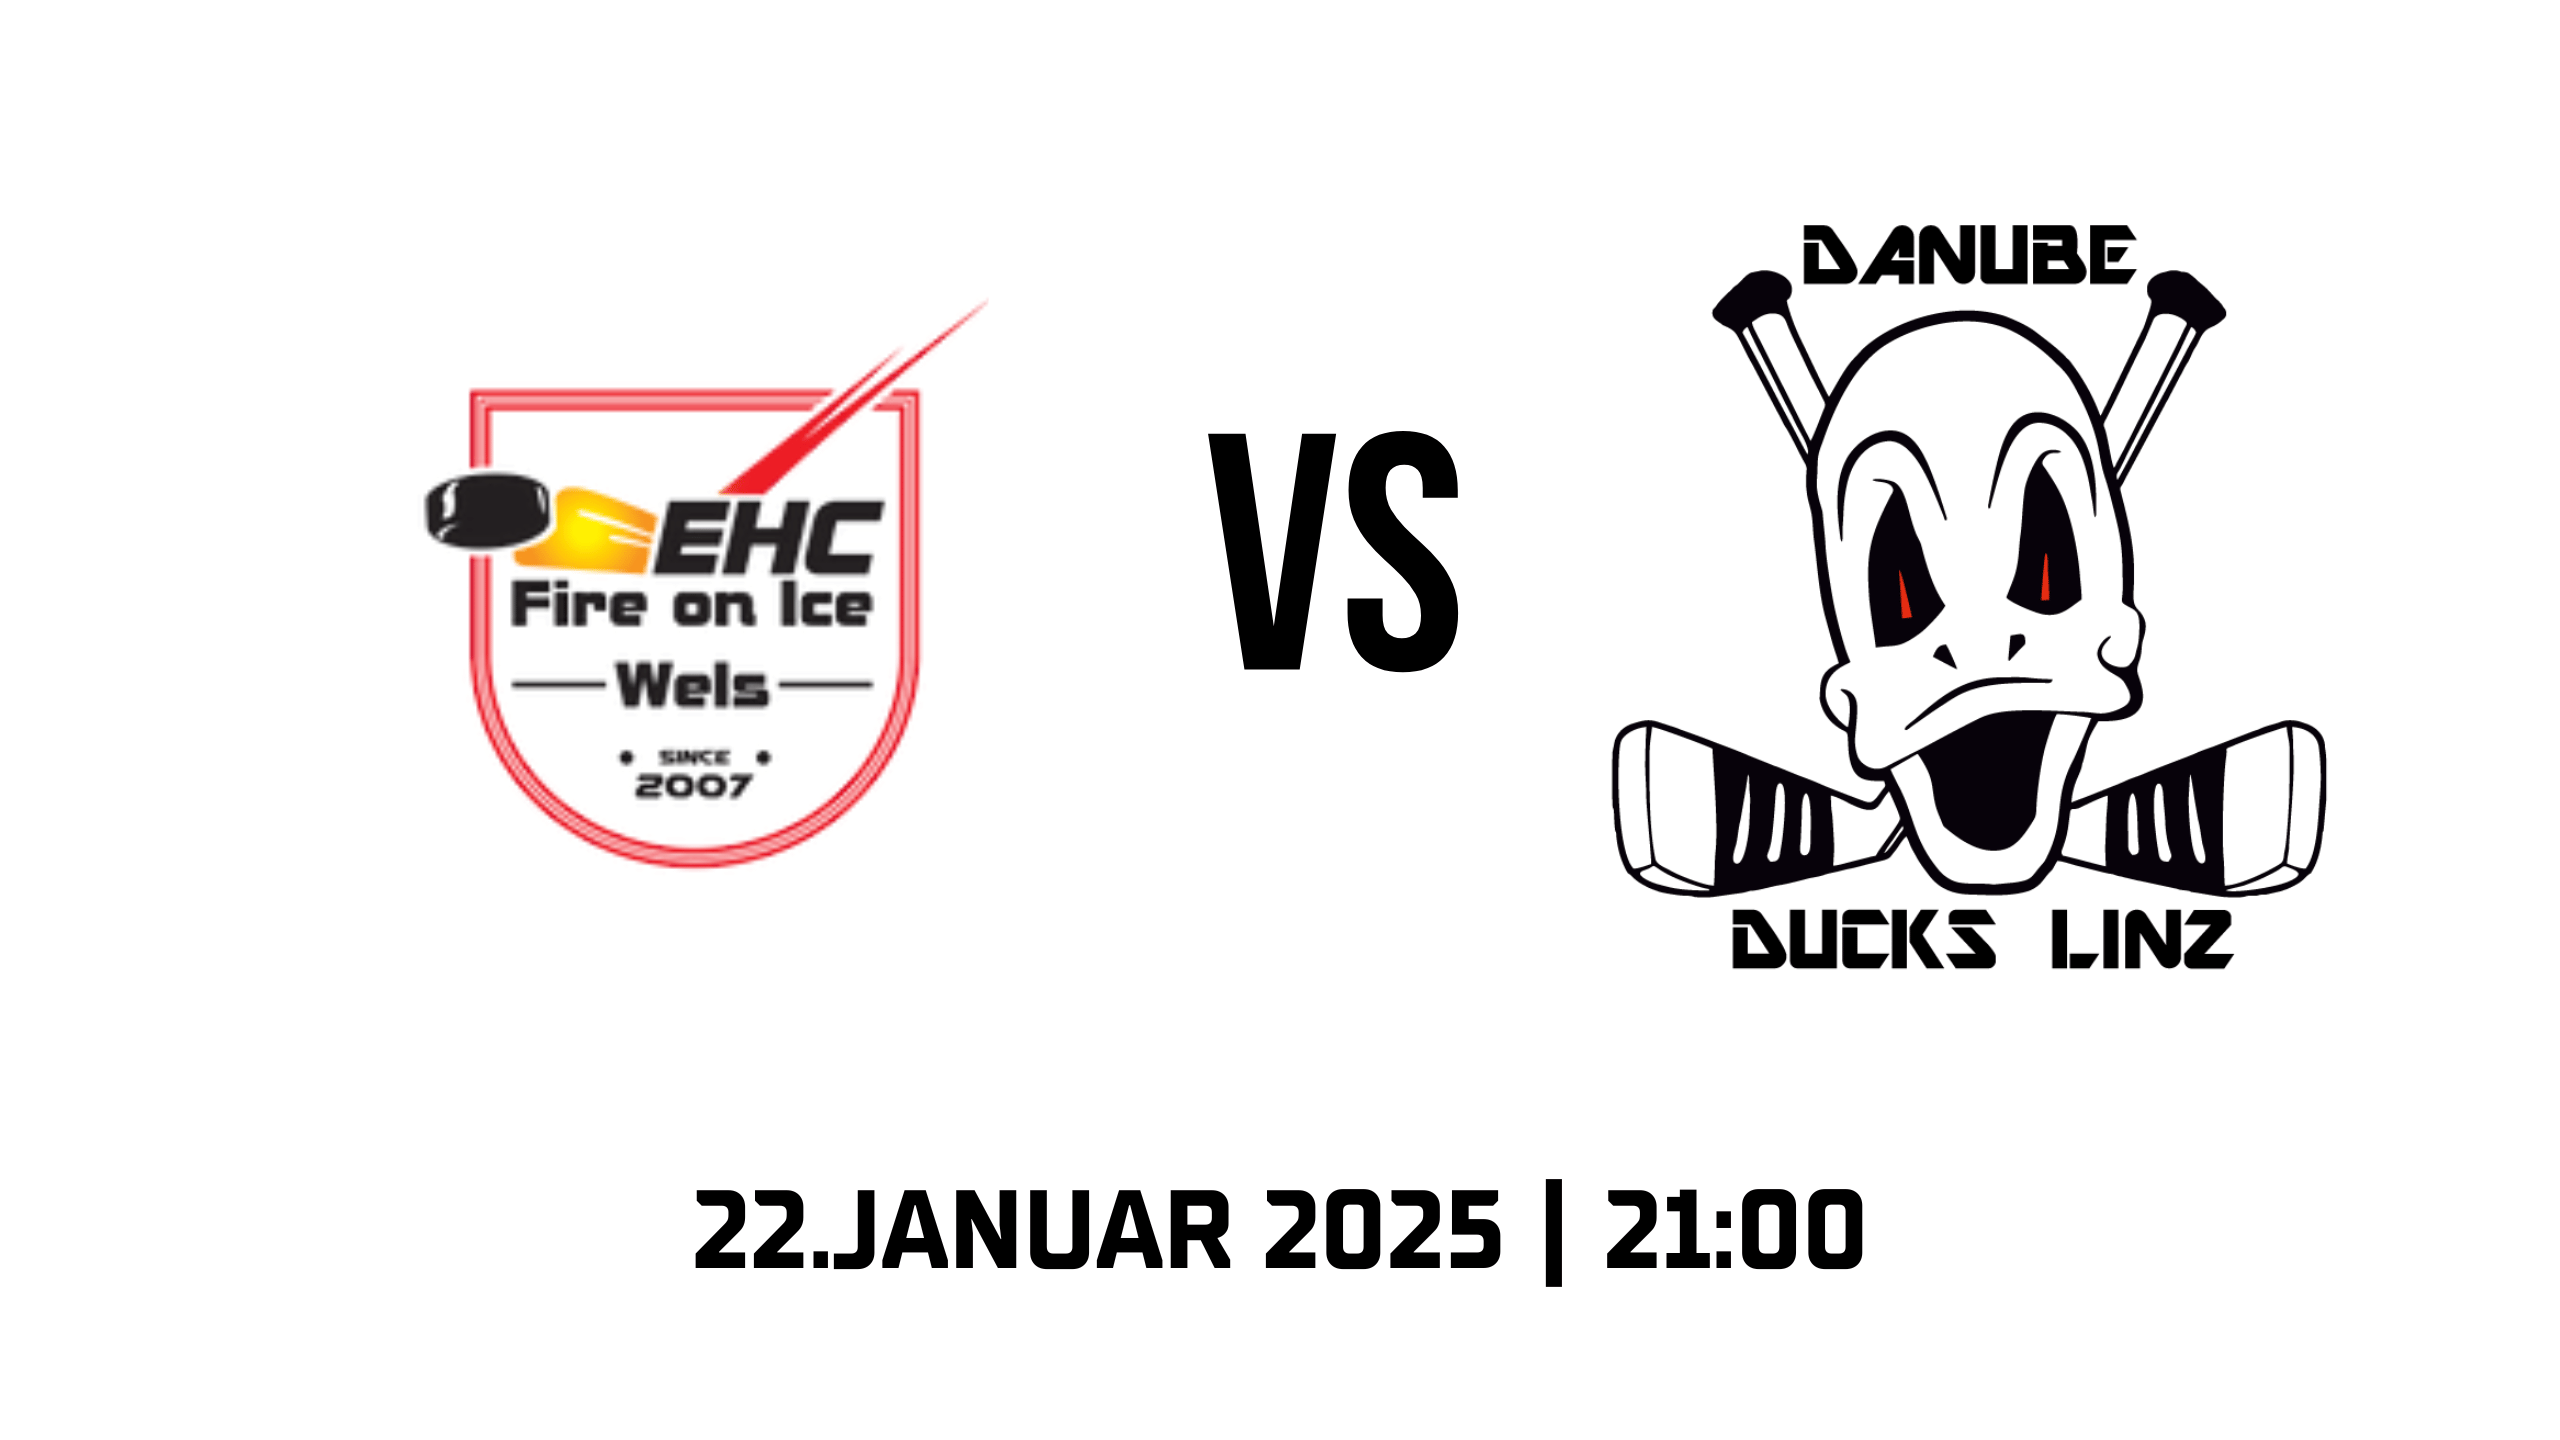
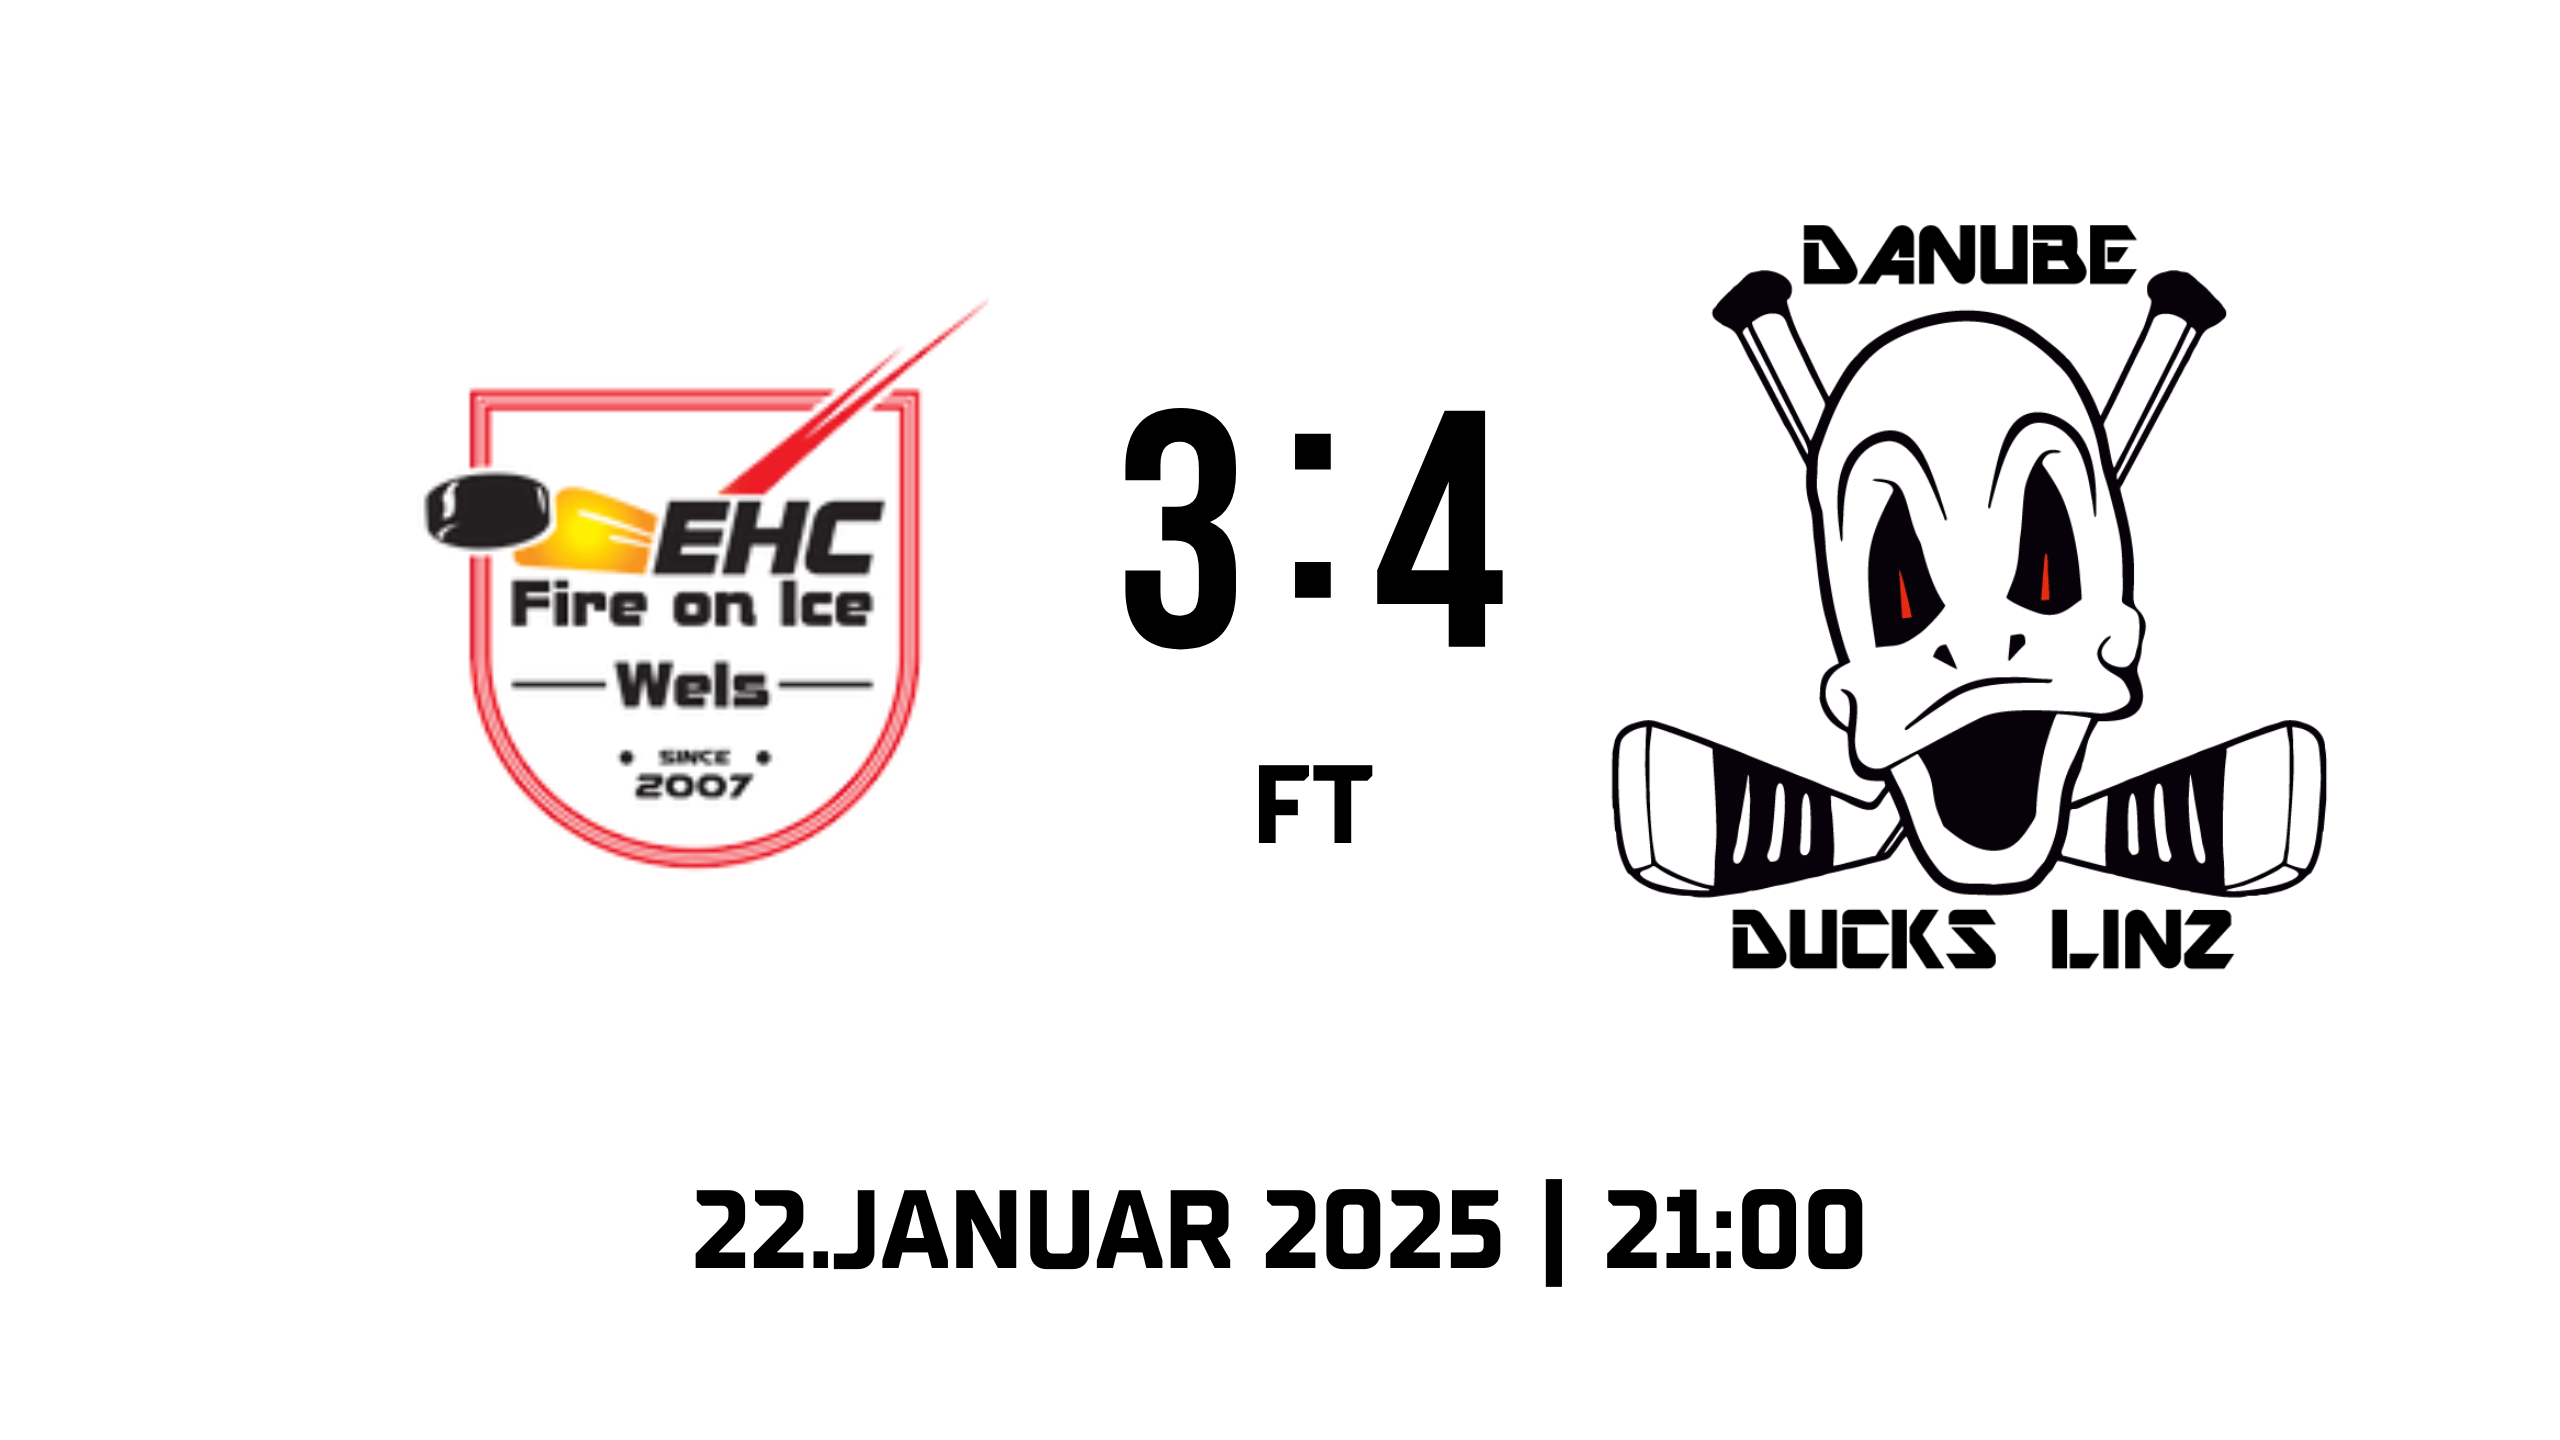
aktualisiert am 25.01.2025

Changed region(s): [[0.4375, 0.2812, 0.5938, 0.4688], [0.4688, 0.5312, 0.5312, 0.5938]]

diff --git a/index.html b/index.html
@@ -48,13 +48,13 @@
       <section id="next game" class="section-next-game">
         <h2>NEXT GAME</h2>
         <div class="matchup">
-          <img src="/images/FireOnIce.png" alt="Danube Ducks Logo" class="Ducks-Logo-next-game">
+          <img src="/images/ECU-Logo.png" alt="Danube Ducks Logo" class="Ducks-Logo-next-game">
           <div class="vs-section">
             <h3>VS</h3>
             <div class="arena-location">
                 <span class="material-symbols-outlined">home</span>
-                <a href="https://www.google.at/maps/place/Eishalle+Wels/@48.1477214,14.0102507,759m/data=!3m2!1e3!4b1!4m6!3m5!1s0x4773f28c5c112b41:0xa6bb24438ef46876!8m2!3d48.1477214!4d14.0128256!16s%2Fg%2F1q5ccg3ty?entry=ttu&g_ep=EgoyMDI1MDExNS4wIKXMDSoASAFQAw%3D%3D" target="_blank" class="map-link">
-                    EISHALLE WELS
+                <a href="https://www.google.at/maps/place/Eishalle+Amstetten/@48.1164774,14.8760455,760m/data=!3m2!1e3!4b1!4m6!3m5!1s0x4772499dd0751e2f:0x590d25743e5e6298!8m2!3d48.1164774!4d14.8786204!16s%2Fg%2F11n05mfc2q?entry=ttu&g_ep=EgoyMDI1MDEyMi4wIKXMDSoASAFQAw%3D%3D" target="_blank" class="map-link">
+                    EISHALLE AMSTETTEN
                 </a>
             </div>
         </div>
@@ -73,10 +73,10 @@
             <h2 class="news-title">AKTUELLES</h2>
             <div class="instagram-posts">
                 <!-- First Instagram Post -->
-                <div class="Post" onclick="openModal('https://www.instagram.com/p/DE5zw_CIS-d/?utm_source=ig_embed&amp;utm_campaign=loading', 'Erster Post Beschreibung')">
-                    <blockquote class="instagram-media" data-instgrm-permalink="https://www.instagram.com/p/DE5zw_CIS-d/?utm_source=ig_embed&amp;utm_campaign=loading" data-instgrm-version="14">
+                <div class="Post" onclick="openModal('https://www.instagram.com/p/DFKgbnPtiCC/?utm_source=ig_embed&amp;utm_campaign=loading', 'Erster Post Beschreibung')">
+                    <blockquote class="instagram-media" data-instgrm-permalink="https://www.instagram.com/p/DFKgbnPtiCC/?utm_source=ig_embed&amp;utm_campaign=loading" data-instgrm-version="14">
                         <div style="padding:16px;">
-                            <a href="https://www.instagram.com/p/DE5zw_CIS-d/?utm_source=ig_embed&amp;utm_campaign=loading" target="_blank">
+                            <a href="https://www.instagram.com/p/DFKgbnPtiCC/?utm_source=ig_embed&amp;utm_campaign=loading" target="_blank">
                                 <!-- Instagram post content -->
                             </a>
                         </div>
@@ -85,10 +85,10 @@
                 </div>
         
                 <!-- Second Instagram Post -->
-                <div class="Post" onclick="openModal('https://www.instagram.com/p/DE2cPLftC9V/?utm_source=ig_embed&amp;utm_campaign=loading', 'Zweiter Post Beschreibung')">
-                    <blockquote class="instagram-media" data-instgrm-permalink="https://www.instagram.com/p/DE2cPLftC9V/?utm_source=ig_embed&amp;utm_campaign=loading" data-instgrm-version="14">
+                <div class="Post" onclick="openModal('https://www.instagram.com/p/DFKgBCLNWiw/?utm_source=ig_embed&amp;utm_campaign=loading', 'Zweiter Post Beschreibung')">
+                    <blockquote class="instagram-media" data-instgrm-permalink="https://www.instagram.com/p/DFKgBCLNWiw/?utm_source=ig_embed&amp;utm_campaign=loading" data-instgrm-version="14">
                         <div style="padding:16px;">
-                            <a href="https://www.instagram.com/p/DE2cPLftC9V/?utm_source=ig_embed&amp;utm_campaign=loading" target="_blank">
+                            <a href="https://www.instagram.com/p/DFKgBCLNWiw/?utm_source=ig_embed&amp;utm_campaign=loading" target="_blank">
                                 <!-- Instagram post content -->
                             </a>
                         </div>
@@ -97,10 +97,10 @@
                 </div>
         
                 <!-- Third Instagram Post -->
-                <div class="Post" onclick="openModal('https://www.instagram.com/p/DEvT6Y0xfRv/?utm_source=ig_embed&amp;utm_campaign=loading', 'Dritter Post Beschreibung')">
-                    <blockquote class="instagram-media" data-instgrm-permalink="https://www.instagram.com/p/DEvT6Y0xfRv/?utm_source=ig_embed&amp;utm_campaign=loading" data-instgrm-version="14">
+                <div class="Post" onclick="openModal('https://www.instagram.com/p/DFFNCT0sQc-/?utm_source=ig_embed&amp;utm_campaign=loading', 'Dritter Post Beschreibung')">
+                    <blockquote class="instagram-media" data-instgrm-permalink="https://www.instagram.com/p/DFFNCT0sQc-/?utm_source=ig_embed&amp;utm_campaign=loading" data-instgrm-version="14">
                         <div style="padding:16px;">
-                            <a href="https://www.instagram.com/p/DEvT6Y0xfRv/?utm_source=ig_embed&amp;utm_campaign=loading" target="_blank">
+                            <a href="https://www.instagram.com/p/DFFNCT0sQc-/?utm_source=ig_embed&amp;utm_campaign=loading" target="_blank">
                                 <!-- Instagram post content -->
                             </a>
                         </div>

diff --git a/Spielplan-Unterliga.html b/Spielplan-Unterliga.html
@@ -172,13 +172,13 @@
                         </div>
                     </td>
                     <td><img src="images/FOI_TABELLE.png" alt="Danube Ducks Logo" class="team-logo"></td>
-                    <td class="result">-:-</td>
+                    <td class="result">3:4</td>
                     <td><img src="images/DL_TABELLE.png" alt="Innviertel Penguins Logo" class="team-logo"></td>
                     <td>
                         <div class="team-container team-container-gast">
                             <span>ASKÖ EV Danube Ducks Linz 2</span>
                         </div>
-                        <td><div class="squareS"></div></td> <!-- Quadrat -->
+                        <td><div class="squareW">W</div></td> <!-- Quadrat -->
                     </td>
                 </tr>
                 <tr>
@@ -246,17 +246,17 @@
                             <div class="indicator win">W</div>
                             <div class="indicator win">W</div>
                             <div class="indicator win">W</div>
-                            <div class="indicator folgt"></div>
+                            <div class="indicator lose">L</div>
                         </div>
                     </td>
-                    <td>7</td> <!-- GP -->
+                    <td>8</td> <!-- GP -->
                     <td>6</td> <!-- W -->
-                    <td>0</td> <!-- L -->
+                    <td>1</td> <!-- L -->
                     <td>1</td> <!-- OTW -->
                     <td>0</td> <!-- OTL --> 
-                    <td>51</td> <!-- GF -->
-                    <td>14</td> <!-- GA -->
-                    <td>+37</td> <!-- GD -->
+                    <td>54</td> <!-- GF -->
+                    <td>18</td> <!-- GA -->
+                    <td>+36</td> <!-- GD -->
                     <td>20</td> <!-- PTS -->
                 </tr>
                 <tr>
@@ -276,18 +276,18 @@
                             <div class="indicator win">W</div>
                             <div class="indicator lose">L</div>
                             <div class="indicator lose">L</div>
-                            <div class="indicator folgt"></div>
+                            <div class="indicator win">W</div>
                         </div>
                     </td>
-                    <td>7</td>
-                    <td>4</td>
+                    <td>8</td>
+                    <td>5</td>
                     <td>3</td>
                     <td>0</td>
                     <td>0</td>
-                    <td>22</td>
-                    <td>24</td>
-                    <td>-2</td>
-                    <td>12</td>
+                    <td>32</td>
+                    <td>25</td>
+                    <td>+7</td>
+                    <td>15</td>
                 </tr>
                 <tr>
                     <td class="bold">3</td>
@@ -305,19 +305,19 @@
                             <div class="indicator win">W</div>
                             <div class="indicator win">W</div>
                             <div class="indicator win">W</div>
-                            <div class="indicator folgt"></div>
+                            <div class="indicator win">W</div>
                             <div class="indicator folgt"></div>
                         </div>
                     </td>
-                    <td>6</td>
-                    <td>3</td>
+                    <td>7</td>
+                    <td>4</td>
                     <td>3</td>
                     <td>0</td>
                     <td>0</td>
-                    <td>31</td>
-                    <td>23</td>
-                    <td>+8</td>
-                    <td>9</td>
+                    <td>35</td>
+                    <td>26</td>
+                    <td>+9</td>
+                    <td>12</td>
                 </tr>
                 <tr>
                     <td class="bold">4</td>
@@ -366,17 +366,17 @@
                             <div class="indicator lose">L</div>
                             <div class="indicator lose">L</div>
                             <div class="indicator lose">L</div>
-                            <div class="indicator folgt"></div>
+                            <div class="indicator lose">L</div>
                         </div>
                     </td>
-                    <td>7</td>
+                    <td>8</td>
                     <td>1</td>
-                    <td>6</td>
+                    <td>7</td>
                     <td>0</td>
                     <td>0</td>
-                    <td>18</td>
-                    <td>64</td>
-                    <td>-46</td>
+                    <td>19</td>
+                    <td>74</td>
+                    <td>-55</td>
                     <td>3</td>
                 </tr>
             </tbody>

diff --git a/script.js b/script.js
@@ -19,7 +19,7 @@ window.addEventListener('scroll', function() {
 
 
 // Setze das Datum für das nächste Spiel (Jahr, Monat (0-basiert), Tag, Stunde, Minute)
-const nextGameDate = new Date("2025-01-22T21:00:00").getTime();
+const nextGameDate = new Date("2025-01-25T17:15:00").getTime();
 
 // Update den Countdown jede Sekunde
 const countdownFunction = setInterval(function() {
@@ -41,6 +41,6 @@ const countdownFunction = setInterval(function() {
     // Wenn der Countdown abgelaufen ist
     if (timeRemaining < 0) {
         clearInterval(countdownFunction);
-        document.getElementById("countdown").innerHTML = '<a href="https://www.ooeehv.at/landesliga-nachwuchs/ooe-liwest-ahul" target="_blank">Live-Ticker!</a>';
+        document.getElementById("countdown").innerHTML = '<a href="https://www.ooeehv.at/landesliga-nachwuchs/ooe-liwest-ahol" target="_blank">Live-Ticker!</a>';
     }
 }, 1000);
